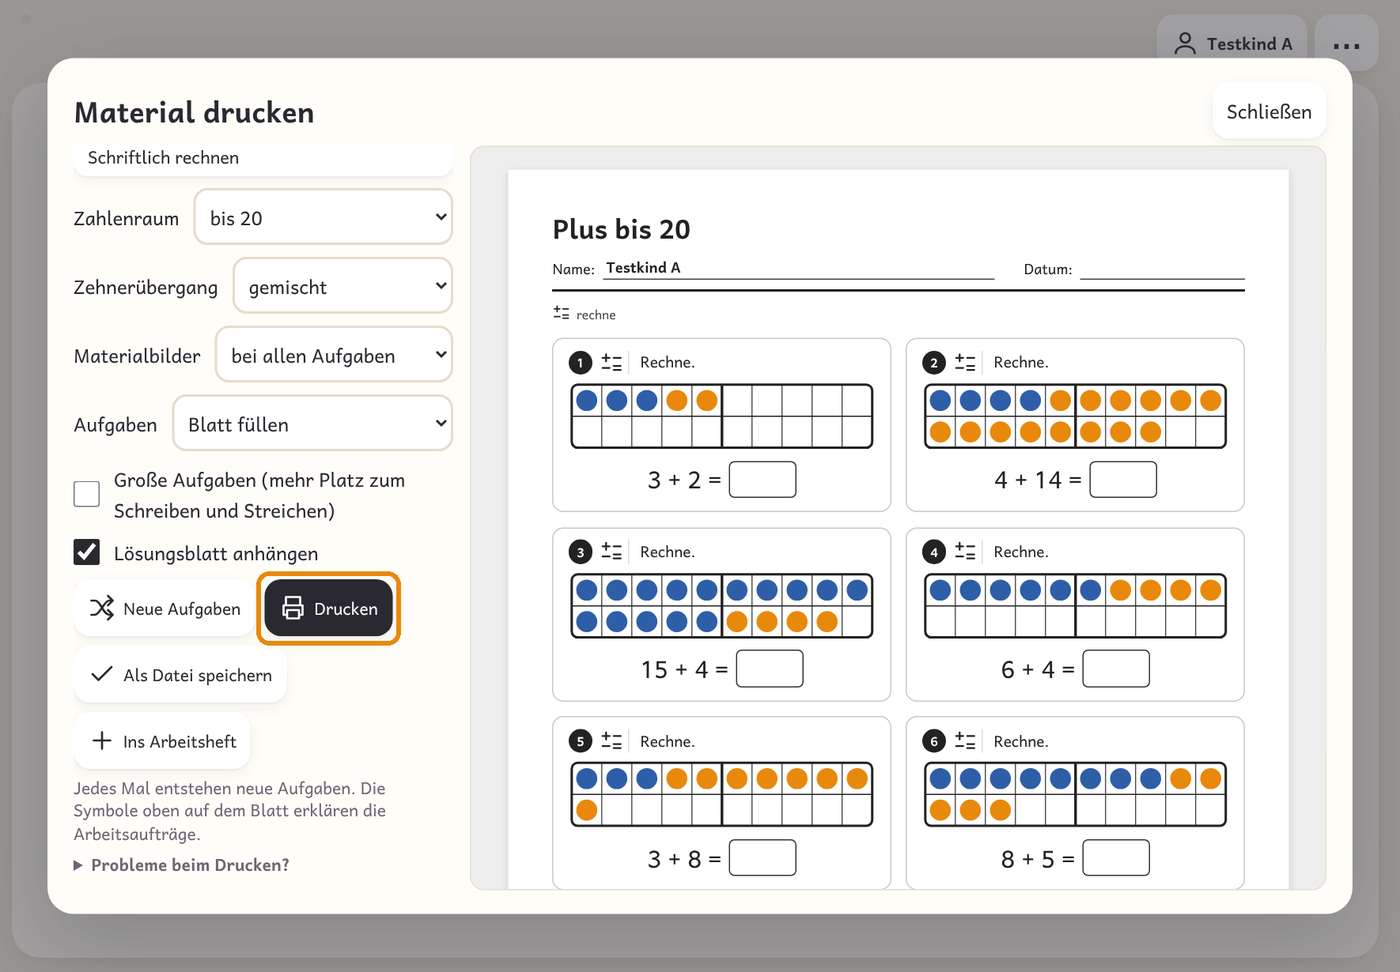
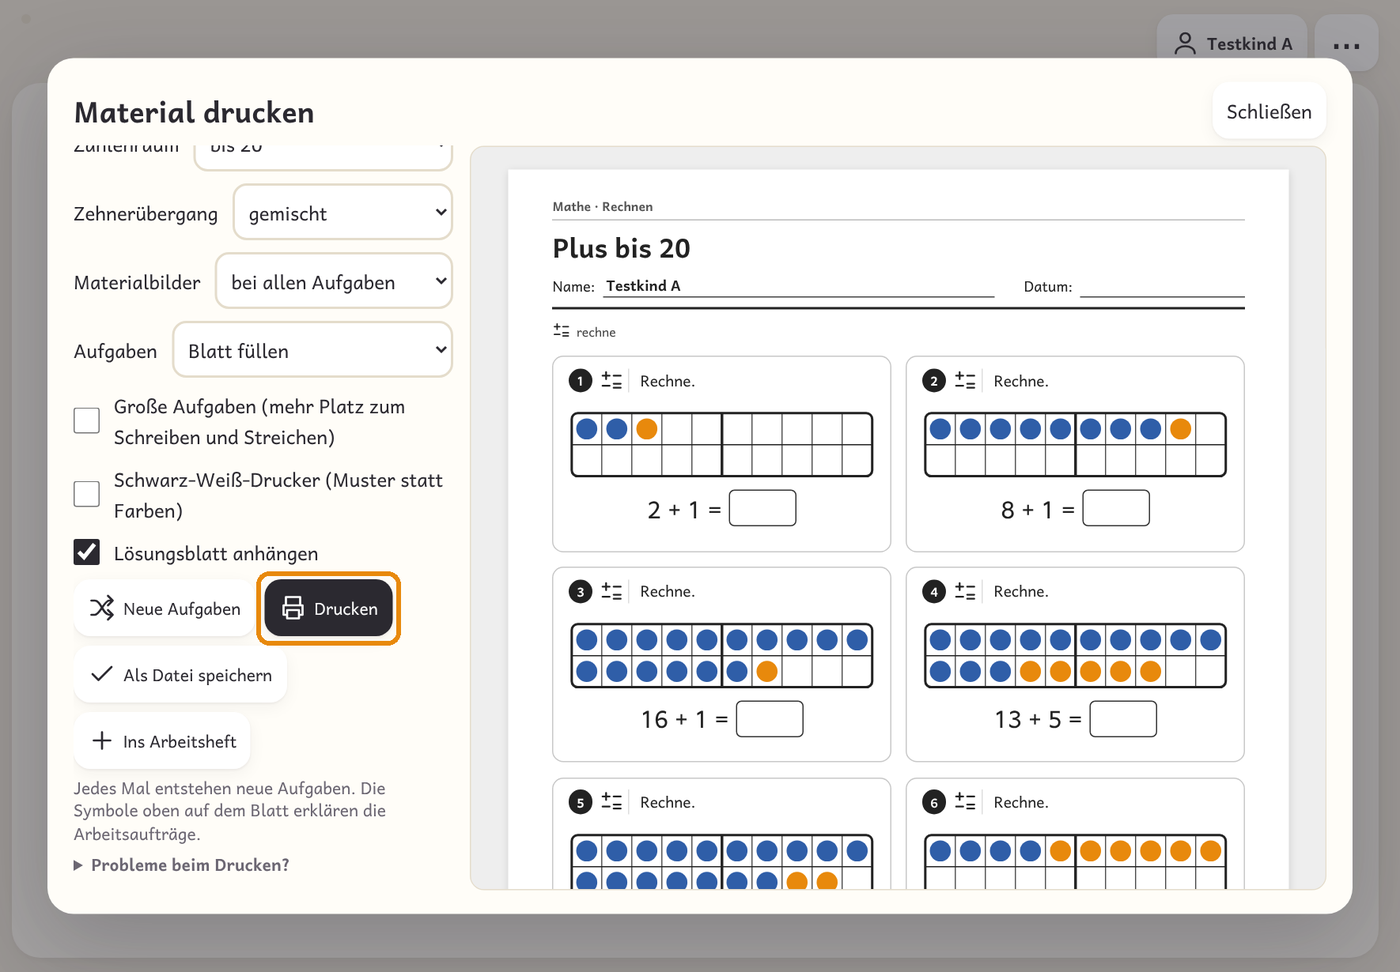
0.40.0: Arbeitsblätter im Design der Arbeitshefte (Backlog M), Schwarz-Weiß für alle Blätter, keine Linie über der Fußzeile; Testversion mit Zeitpunkt in der Versionsnummer
Freigegeben von Stefan nach Durchsicht der Testversion. Anleitungsbilder neu aufgenommen.

Claude-Session: https://claude.ai/code/session_01EfzymyvAVtmwxHXwZVFzU9

Changed region(s): [[0.3993, 0.1852, 0.8907, 0.9259], [0.0307, 0.1543, 0.3379, 0.5556], [0.86, 0.5247, 0.8907, 0.5556]]

diff --git a/index.html b/index.html
@@ -11550,7 +11550,7 @@ document.addEventListener('change', e => { const c = e.target.closest('[data-sub
 document.addEventListener('change', e => { const s = e.target.closest('[data-guide-pid]'); if(!s) return; const p = data.profiles.find(x => x.id === s.dataset.guidePid); if(p){ p.guide = s.value || undefined; saveData(); render(); } });
 
 /* ---------- Rückmeldung (Testphase): Art, Schwere, Text + automatischer Kontext → E-Mail ---------- */
-const APP_VERSION = '0.39.0 · 26.11.2026';
+const APP_VERSION = '0.40.0 · 26.11.2026';
 /* Danke-Seite: Namen nur mit Einverständnis eintragen, z. B. 'Vorname Nachname (Schule)' */
 const THANKS = [];
 const FB_REPO = 'https://github.com/Steffinuss/stufenweise';

diff --git a/CHANGELOG.md b/CHANGELOG.md
@@ -5,6 +5,12 @@ Versionen: Hauptversion.Nebenversion.Korrektur (Korrektur = Fehlerbehebung, Nebe
 
 ## Unveröffentlicht (Zweig `entwicklung`, Testversion)
 
+## 0.40.0 – 26.11.2026
+
+Freigegeben von Stefan am 26.11.2026 nach Durchsicht der Testversion („Perfekt, kannst du freigeben.“).
+
+- **Testversion: neue Stände werden erkannt** (Rückmeldung Stefan, 26.11.2026): Bisher hatte jede Testversion dieselbe Nummer (z. B. 0.40.0), „Nach neuer Version suchen“ fand einen neueren Stand erst, wenn sich die Nebenversion änderte. `tests/testversion.sh` hängt jetzt den Zeitpunkt als vierte Stelle an (z. B. „0.41.0.2611262110“), in `version.json` und in der Anzeige. Die richtige App ist nicht betroffen.
+
 - **Arbeitsblätter im Design der Arbeitshefte** (Backlog M; Stefan hat am 26.11.2026 aus drei Bild-Vorschlägen „Layout A: wie im Heft“ gewählt): Einzelne Arbeitsblätter haben oben eine schmale Kopfzeile mit Fach und Bereich (z. B. „Mathe · Rechnen“), darunter Titel, Name und Datum wie bisher. Die Aufgabenkästen reichen bis zur Fußzeile. Die Fußzeile steht auf fester Höhe, mit Bildungsplan und Lizenz links und dem Fach rechts; keine Seitenzahl, kein Farbrand. Lösungsblatt („Lösungen“) und Hundertertafel zum Nachschauen haben dieselbe Kopf- und Fußzeile, ihr Aufbau bleibt. Legeblätter bleiben, wie sie sind (Stefan). Umsetzung: `sheetFramed()` mit `heftFrame()` (neu: ohne Seitenzahl, Text rechts), `SHEET_FRAME_CSS`; „Blatt füllen“ misst ohne gestreckte Kästen (`sheetFit` mit `ab-measure`). Heftseiten werden weiter ohne Blatt-Rahmen gebaut (`sheetRaw`), auch bei „Ins Arbeitsheft“. Nebenbei: L8/L9-Blätter („Längere Texte“) laufen ohne große Aufgaben nicht mehr über.
 - **Schwarz-Weiß für alle Blätter** (Backlog M, Stefan: „Ja, so“): Das Häkchen „Schwarz-Weiß-Drucker (Muster statt Farben)“ gibt es jetzt bei allen Arbeitsblättern und im Heft-Assistenten immer. Blaue Plättchen und Zehnerstangen werden schwarz, orange Plättchen schraffiert, grüne Einer bekommen ein Gitter, rote Hunderter Punkte; alle übrigen Farben (Bilder, Uhren, Geld, Markierungen) werden Grau gleicher Helligkeit (`swHtml`, `SW_MAP`, Muster `sw-or`/`sw-gr`/`sw-rot` in `B_BW_DEFS`). Basis-Blätter behalten ihre eigenen Muster.
 - **Keine Linie mehr über der Fußzeile** (Rückmeldung Stefan, 26.11.2026: „unten die Linie überflüssig, so sieht es komisch aus“): Seit die Kästen bis zur Fußzeile reichen, lag die Linie direkt unter den Kästen. Gilt für Heftseiten und Arbeitsblätter.

diff --git a/BACKLOG.md b/BACKLOG.md
@@ -4,7 +4,7 @@ Geplante Entwicklungsaufgaben für Stufenweise. Begonnenes steht in `IN_PROGRESS
 
 Regeln (Stand 17.11.2026): Der Funktionsumfang von `main` ist eingefroren, weil die App an Schulen genutzt wird. Neues entsteht nur im Zweig `entwicklung`, wird in der Testversion gezeigt und erst nach Stefans OK freigegeben (`docs/entwicklung.md`). Didaktische Entscheidungen trifft Stefan.
 
-Stand: 26.11.2026 (0.39.0; als Nächstes L und M)
+Stand: 26.11.2026 (0.40.0; L in Arbeit)
 
 ## Vorgeschlagene Reihenfolge
 
@@ -22,7 +22,7 @@ Stand: 26.11.2026 (0.39.0; als Nächstes L und M)
 | 9 | ~~**J** Arbeitshefte, die aufeinander aufbauen + **K** Fußzeile ohne Namen~~ | groß | freigegeben in 0.38.0 (26.11.2026), siehe `CHANGELOG.md` |
 | 10 | ~~**O1** Voller Speicher melden, **P1** Safari-Tab auf dem iPad, **Q1** Raten im Test~~ | klein | Datensicherheit aus der Prüfung vom 22.11.; O1 freigegeben in 0.38.1, P1 und Q1 in 0.39.0 |
 | 11 | ~~**N** Große Aufgaben im Heft-Assistenten~~ | klein | freigegeben in 0.39.0 (26.11.2026) |
-| 12 | **M** Blätter im Heft-Design, dann **L** Lineatur | klein bis mittel | M gebaut, in der Testversion (26.11.); L danach |
+| 12 | ~~**M** Blätter im Heft-Design~~, dann **L** Lineatur | klein bis mittel | M freigegeben in 0.40.0 (26.11.); L in Arbeit |
 
 Alternative: B zuerst als schneller Gewinn, während Stefan den Basis-Test ausprobiert.
 
@@ -259,7 +259,7 @@ Der Standard richtet sich nach der Klasse/Stufe des Kindes. Die Wahl wird gemerk
 
 ## M: Arbeitsblätter im Design der Arbeitshefte (Wunsch Stefan, 26.11.2026)
 
-**Status:** gebaut in `entwicklung`, in der Testversion (26.11.2026, Stefan: „Bau M in Entwicklung“), wartet auf Stefans Freigabe. Danach L. Bekannt, nicht neu: Große Aufgaben bei L8/L9 und H:HL passen nicht auf ein Blatt (schon in 0.39.0, große Aufgaben werden nie verkleinert).
+**Status:** erledigt, freigegeben in 0.40.0 (26.11.2026). Danach L. Bekannt, nicht neu: Große Aufgaben bei L8/L9 und H:HL passen nicht auf ein Blatt (schon in 0.39.0, große Aufgaben werden nie verkleinert).
 **Wunsch (Stefan):** „Passend zu den Arbeitsheften auch Arbeitsblätter im Design anpassen/aktualisieren.“
 **Idee:** Einzelne Arbeitsblätter („Material drucken“) bekommen das Aussehen der Heftseiten, wie in 0.38.0 eingeführt:
 - Kopfzeile wie im Heft, z. B. Fach und Stufe; Name und Datum bleiben.

diff --git a/IN_PROGRESS.md b/IN_PROGRESS.md
@@ -3,10 +3,6 @@
 Was gerade begonnen ist. Erledigtes wandert nach `CHANGELOG.md`, Geplantes steht in `BACKLOG.md`.
 Arbeitsweise mit zwei Zweigen: `docs/entwicklung.md`.
 
-Stand: 26.11.2026 (0.39.0 freigegeben)
+Stand: 26.11.2026 (0.40.0 freigegeben)
 
-In der Testversion, wartet auf Stefans Durchsicht und Freigabe (Einzelheiten in `CHANGELOG.md` unter „Unveröffentlicht“):
-
-- **M** Arbeitsblätter im Design der Arbeitshefte (Layout A), Schwarz-Weiß für alle Blätter, keine Linie über der Fußzeile (auch im Heft).
-
-Danach: **L** Lineatur (Grundstufe Haus, Hauptstufe/Berufsschulstufe eine Linie).
+Zurzeit nichts in Arbeit. M (Arbeitsblätter im Heft-Design) ist mit 0.40.0 freigegeben. Als Nächstes: **L** Lineatur (Stefan: „Anschließend mach mit L weiter.“).
